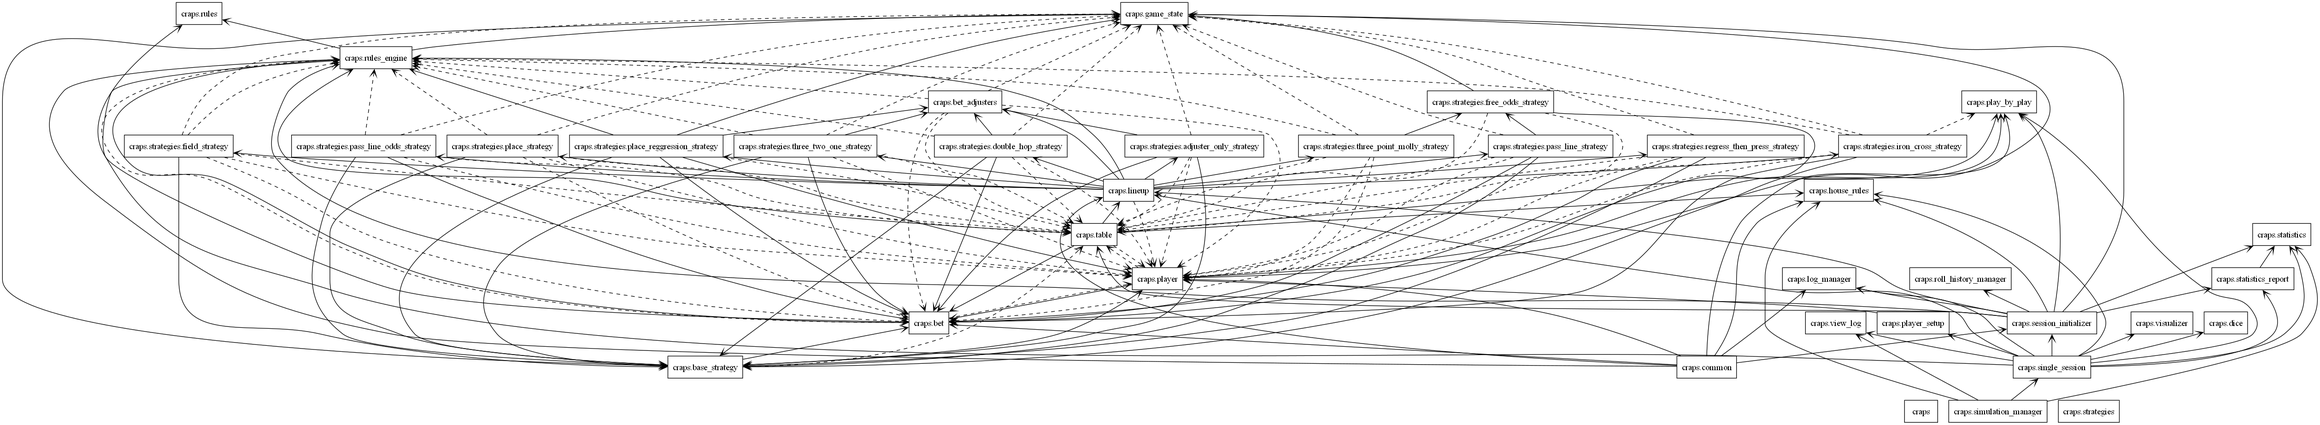
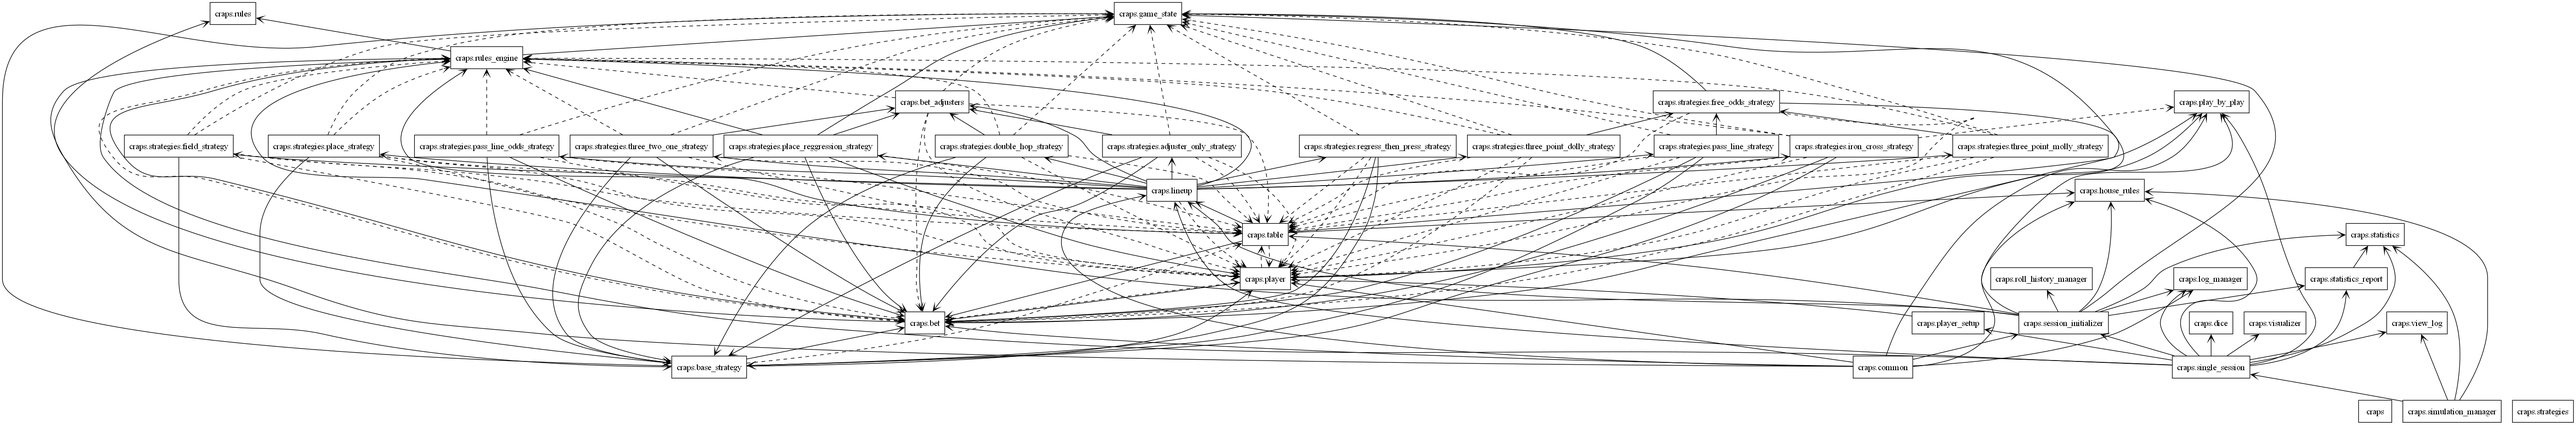
Three Point Dolly Strategy

diff --git a/craps/strategies/three_point_dolly_strategy.py b/craps/strategies/three_point_dolly_strategy.py
@@ -1,0 +1,76 @@
+from __future__ import annotations
+from typing import TYPE_CHECKING, List, Optional
+from craps.strategies.free_odds_strategy import FreeOddsStrategy
+
+if TYPE_CHECKING:
+    from craps.table import Table
+    from craps.rules_engine import RulesEngine
+    from craps.game_state import GameState
+    from craps.player import Player
+    from craps.bet import Bet
+
+class ThreePointDollyStrategy:
+    """
+    Betting strategy for the 3-Point Dolly system.
+
+    This strategy plays the dark side of the 3-point molly:
+    - A Don't Pass bet on come-out
+    - Up to 2 Don't Come bets with lay odds
+    """
+
+    def __init__(
+        self,
+        table: Table,
+        bet_amount: int,
+        odds_type: Optional[str] = "3x4x5x",
+        dont_come_odds_working_on_come_out: bool = False
+    ) -> None:
+        self.table = table
+        self.bet_amount = bet_amount
+        self.odds_strategy = FreeOddsStrategy(table, odds_type) if odds_type else None
+        self.dont_come_odds_working_on_come_out = dont_come_odds_working_on_come_out
+
+    def place_bets(self, game_state: GameState, player: Player, table: Table) -> List[Bet]:
+        bets: List[Bet] = []
+        rules_engine = table.rules_engine
+
+        # Place Don't Pass on come-out if not already placed
+        if game_state.phase == "come-out":
+            if not player.has_active_bet(table, "Don't Pass"):
+                bets.append(rules_engine.create_bet("Don't Pass", self.bet_amount, player))
+
+        # Place up to 2 Don't Come bets during point phase
+        if game_state.phase == "point":
+            active_dont_come_bets = [
+                b for b in table.bets
+                if b.bet_type == "Don't Come" and b.owner == player and b.number is not None
+            ]
+            if len(active_dont_come_bets) < 2:
+                bets.append(rules_engine.create_bet("Don't Come", self.bet_amount, player))
+
+        # Place Lay Odds on Don't Pass and Don't Come bets using FreeOddsStrategy
+        if self.odds_strategy and game_state.phase == "point":
+            odds_bets = self.odds_strategy.get_odds_bet(game_state, player, table)
+            if odds_bets:
+                existing_odds = {
+                    (b.parent_bet, b.number)
+                    for b in table.bets
+                    if b.bet_type.endswith("Odds") and b.owner == player
+                }
+                for odds_bet in odds_bets:
+                    parent = odds_bet.parent_bet
+                    if (
+                        parent
+                        and parent.owner == player
+                        and (parent, parent.number) not in existing_odds
+                    ):
+                        odds_bet.number = parent.number  # Ensure odds bet inherits number
+                        bets.append(odds_bet)
+
+        return bets if bets else []
+
+    def should_dont_come_odds_be_working(self) -> bool:
+        """
+        Return whether the strategy wants Don't Come odds to be working during the next come-out roll.
+        """
+        return self.dont_come_odds_working_on_come_out

diff --git a/tests/test_strategies.py b/tests/test_strategies.py
@@ -360,5 +360,55 @@ class TestStrategies(unittest.TestCase):
         self.assertTrue(strategy.transitioned)
         self.assertIs(strategy.active_strategy, press_strategy)
 
+    def test_three_point_dolly(self):
+        """Test Three-Point Dolly strategy places Don't Pass, Don't Come, and Lay Odds correctly."""
+        from craps.strategies.three_point_dolly_strategy import ThreePointDollyStrategy
+
+        strategy = ThreePointDollyStrategy(table=self.table, bet_amount=10, odds_type="3x-4x-5x")
+        self.player.betting_strategy = strategy
+
+        # 1) Come-out roll — should place Don't Pass
+        self.game_state.point = None
+        bets = strategy.place_bets(self.game_state, self.player, self.table)
+        assert_contains_bet(bets, "Don't Pass", self.player)
+
+        dp_bet = bets[0]
+        self.table.place_bet(dp_bet, self.game_state.phase)
+        self.player.balance -= dp_bet.amount
+
+        # 2) Point is established (e.g., 8)
+        self.game_state.point = 8
+
+        # 3) Should place Don't Come and lay odds on Don't Pass
+        bets = strategy.place_bets(self.game_state, self.player, self.table)
+        assert_contains_bet(bets, "Don't Come", self.player)
+        assert_contains_bet(bets, "Don't Pass Odds", self.player)
+
+        for b in bets:
+            self.table.place_bet(b, self.game_state.phase)
+            self.player.balance -= b.amount
+
+        # 4) Simulate Don't Come bet moving to 5
+        dc_bet = next(b for b in self.table.bets if b.bet_type == "Don't Come")
+        dc_bet.number = 5
+
+        # 5) Place second Don't Come and odds on the first
+        bets = strategy.place_bets(self.game_state, self.player, self.table)
+        assert_contains_bet(bets, "Don't Come", self.player)
+        assert_contains_bet(bets, "Don't Come Odds", self.player)
+
+        for b in bets:
+            self.table.place_bet(b, self.game_state.phase)
+            self.player.balance -= b.amount
+
+        # 6) Simulate second Don't Come moving to 9
+        second_dc = next(b for b in self.table.bets if b.bet_type == "Don't Come" and b.number is None)
+        second_dc.number = 9
+
+        # 7) Try placing more Don't Come bets → should NOT place (already have 2 DC points)
+        bets = strategy.place_bets(self.game_state, self.player, self.table)
+        base_dont_come_bets = [b for b in bets if b.bet_type == "Don't Come"]
+        self.assertEqual(len(base_dont_come_bets), 0, "Should not place more than 2 Don't Come bets")
+
 if __name__ == "__main__":
     unittest.main()

diff --git a/craps/lineup.py b/craps/lineup.py
@@ -5,6 +5,7 @@ from craps.strategies.place_strategy import PlaceBetStrategy
 from craps.strategies.field_strategy import FieldBetStrategy
 from craps.strategies.iron_cross_strategy import IronCrossStrategy
 from craps.strategies.three_point_molly_strategy import ThreePointMollyStrategy
+from craps.strategies.three_point_dolly_strategy import ThreePointDollyStrategy
 from craps.strategies.double_hop_strategy import DoubleHopStrategy
 from craps.strategies.three_two_one_strategy import ThreeTwoOneStrategy
 from craps.strategies.place_reggression_strategy import PlaceRegressionStrategy
@@ -43,6 +44,7 @@ class PlayerLineup:
             "Field": FieldBetStrategy(min_bet=self.house_rules.table_minimum),
             "Iron Cross": IronCrossStrategy(table=self.table, min_bet=self.house_rules.table_minimum, play_by_play=self.play_by_play, rules_engine=self.rules_engine),
             "3-Point Molly": ThreePointMollyStrategy(table=self.table, bet_amount=self.house_rules.table_minimum, odds_type="1x-2x-3x"),
+            "3-Point Dolly": ThreePointDollyStrategy(table=self.table, bet_amount=self.house_rules.table_minimum, odds_type="1x-2x-3x"),
             "Inside": PlaceBetStrategy(table=self.table, rules_engine=self.rules_engine, numbers_or_strategy="inside",),
             "Across": PlaceBetStrategy(table=self.table, rules_engine=self.rules_engine, numbers_or_strategy="across",),
             "Place 68": PlaceBetStrategy(table=self.table, numbers_or_strategy=[6, 8], rules_engine=self.rules_engine),
@@ -50,7 +52,7 @@ class PlayerLineup:
             "Three-Two-One": ThreeTwoOneStrategy(rules_engine=self.rules_engine, min_bet=self.house_rules.table_minimum, odds_type="1x"),
             "RegressHalfPress": PlaceRegressionStrategy(high_unit=20, low_unit=3, regression_factor=2),
             "RegressHalfPress": RegressThenPressStrategy(regression_strategy=PlaceRegressionStrategy(high_unit=10,low_unit=2,regression_factor=2),
-                                                         press_strategy=AdjusterOnlyStrategy(name="HalfPress",adjuster=HalfPressAdjuster()))
+                                                         press_strategy=AdjusterOnlyStrategy(name="HalfPress",adjuster=HalfPressAdjuster())),
         }
 
     def add_player(self, player: "Player") -> None:

diff --git a/craps/rules_engine.py b/craps/rules_engine.py
@@ -171,27 +171,27 @@ class RulesEngine:
             return 0
         
         # 🎯 **1. LINE BETS (Pass Line, Don't Pass, Come, Don't Come)**
-        if bet_rules.get("is_contract_bet", False):  # ✅ Line bets use contract logic
+        if bet_rules.get("is_contract_bet", False):
             # 🏆 **Come/Don't Come Special Case - Handle First Roll**
             if bet.bet_type in ["Come", "Don't Come"]:
-                if bet.number is None:  # ✅ First roll for Come/Don't Come
-                    if total in resolution_rules["come_out_win"]:
+                if bet.number is None:
+                    come_out_win = resolution_rules.get("come_out_win", [])
+                    come_out_lose = resolution_rules.get("come_out_lose", [])
+
+                    if total in come_out_win:
                         bet.status = "won"
-                    elif total in resolution_rules["come_out_lose"]:
+                    elif total in come_out_lose:
                         bet.status = "lost"
                     else:
-                        bet.number = total  # ✅ Move the bet to a number
-                else:  # ✅ Subsequent rolls after moving to a number
-                    if total == bet.number:
+                        bet.number = total
+                else:
+                    if total in winning_numbers:
                         bet.status = "won"
-                    elif total == 7:
+                    elif total in losing_numbers:
                         bet.status = "lost"
-            
-            # 🏆 **Pass Line / Don't Pass Logic**
-            else:
-                if "point_made" in winning_numbers and point is not None and total == point:
-                    bet.status = "won"
-                elif phase == "come-out" and total in winning_numbers:
+
+            else:  # Pass Line / Don't Pass logic
+                if total in winning_numbers:
                     bet.status = "won"
                 elif total in losing_numbers:
                     bet.status = "lost"

diff --git a/config.py b/config.py
@@ -1,17 +1,18 @@
 # File: .\config.py
 
 ACTIVE_PLAYERS = {
-    "Pass-Line": True,
-    "Pass-Line w/ Odds": True,
-    "Field": True,
-    "Iron Cross": True,
+    "Pass-Line": False,
+    "Pass-Line w/ Odds": False,
+    "Field": False,
+    "Iron Cross": False,
     "3-Point Molly": True,
-    "Inside": True,
-    "Across": True,
-    "Place 68": True,
-    "Double Aces": True,
-    "Three-Two-One": True,
-    "RegressHalfPress": True
+    "3-Point Dolly": True,
+    "Inside": False,
+    "Across": False,
+    "Place 68": False,
+    "Double Aces": False,
+    "Three-Two-One": False,
+    "RegressHalfPress": False,
 }
 
 # Add a new configuration entry for session mode

diff --git a/craps/rules.py b/craps/rules.py
@@ -162,7 +162,7 @@ BET_RULES = {
             },
         },
         "Hardways": {
-            "valid_numbers": [(2, 2), (3, 3), (4, 4), (5, 5)],
+            "valid_numbers": [4, 6, 8, 10],
             "valid_phases": ["come-out", "point"],
             "payout_ratio": "Hardways",
             "resolution": {
@@ -313,4 +313,3 @@ ODDS_MULTIPLIERS = {
     "20x": {4: 20, 5: 20, 6: 20, 8: 20, 9: 20, 10: 20},
     "100x": {4: 100, 5: 100, 6: 100, 8: 100, 9: 100, 10: 100},
 }
-
